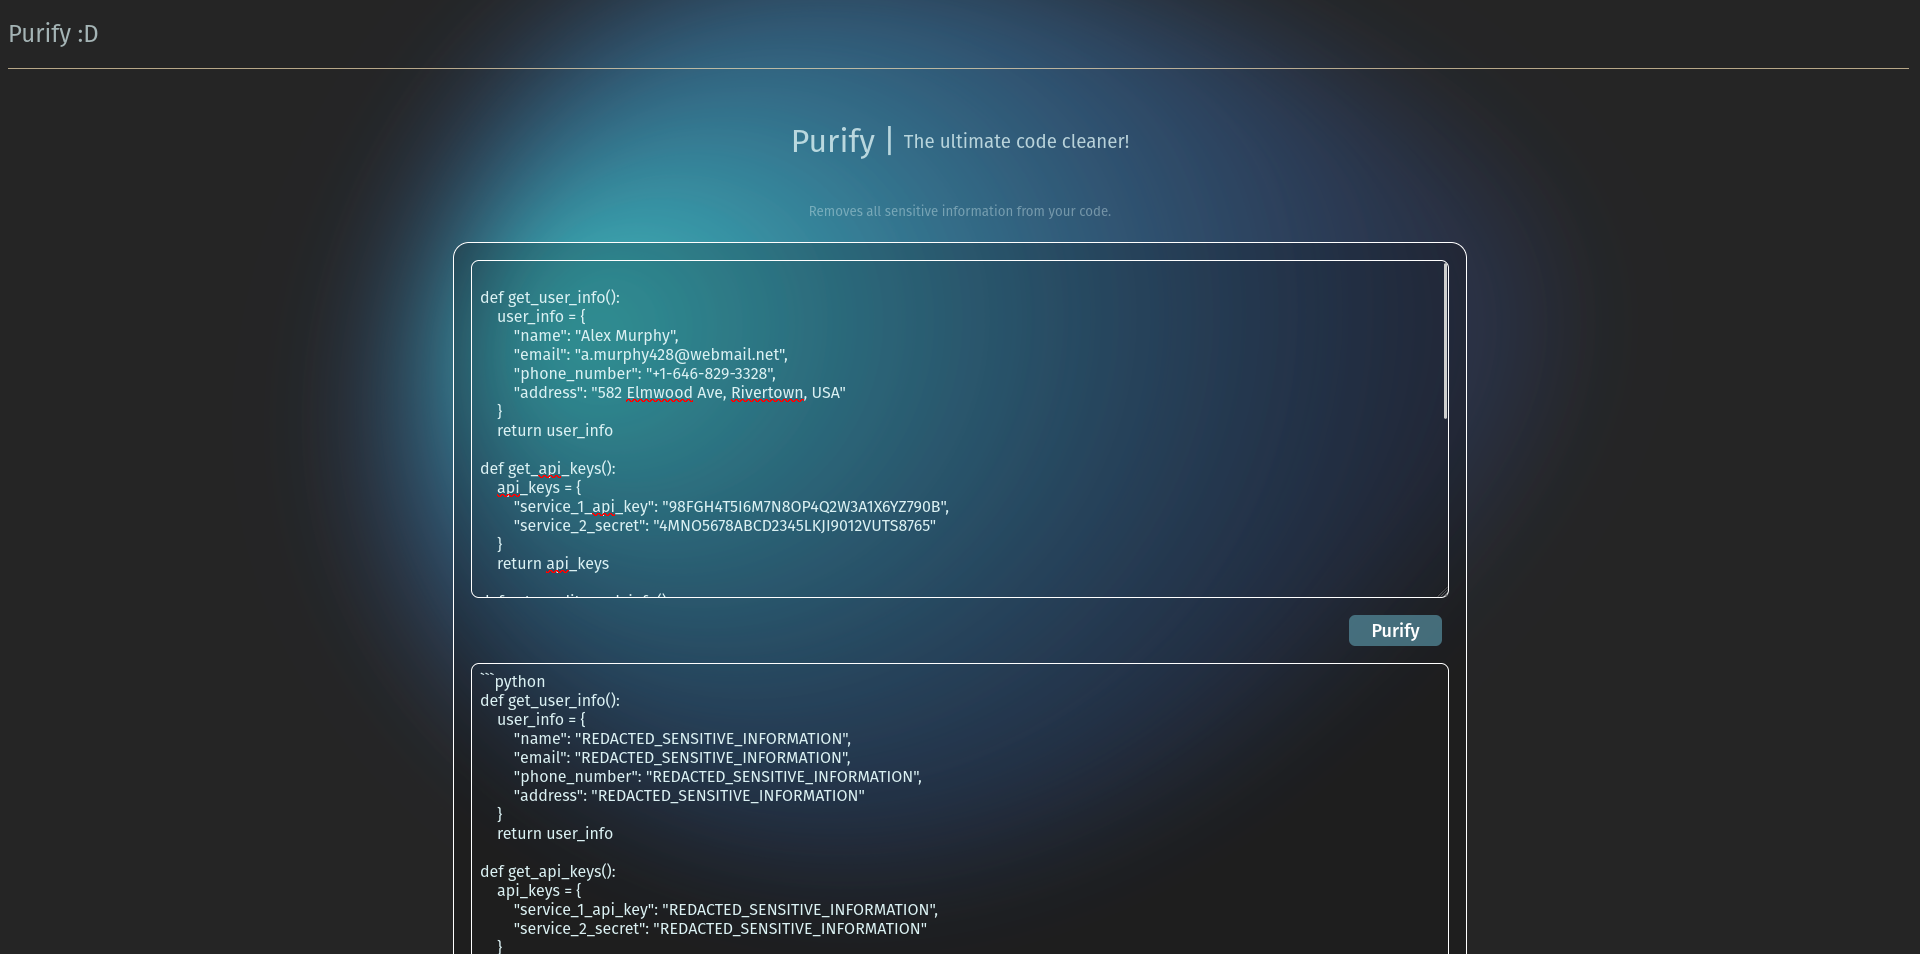
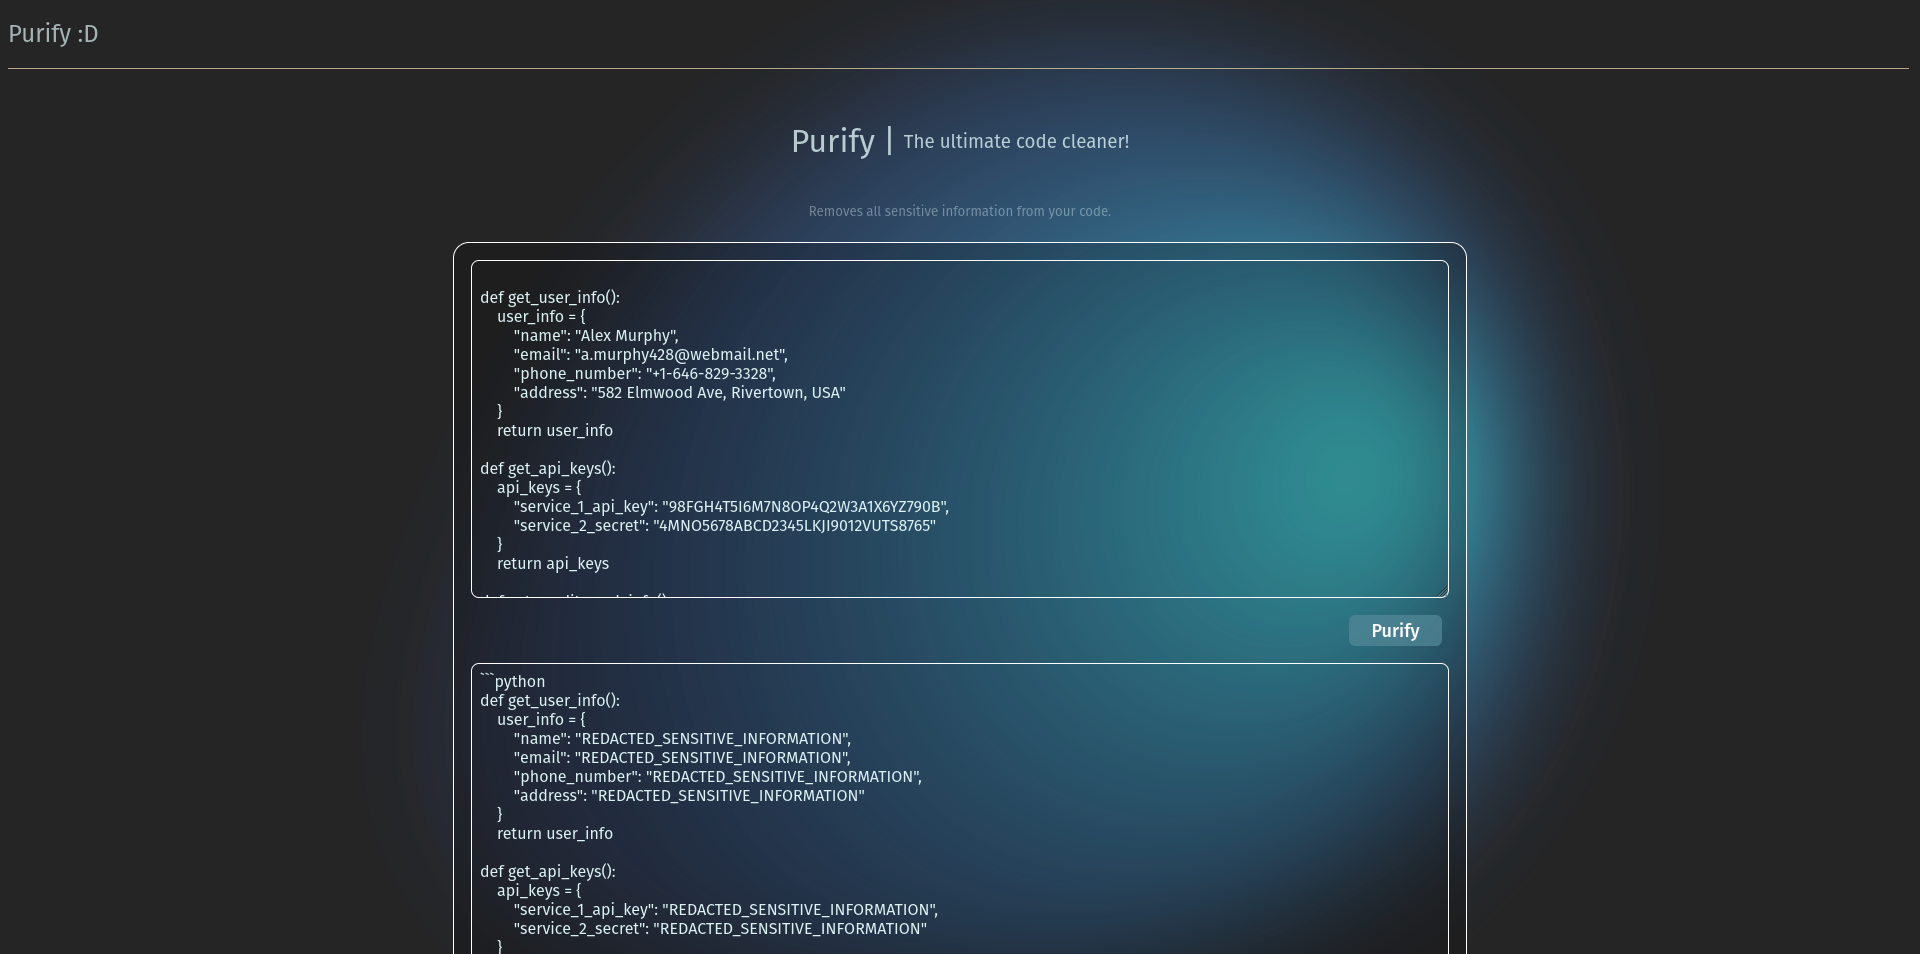
disabled code spellcheck+

diff --git a/src/routes/+page.svelte b/src/routes/+page.svelte
@@ -66,7 +66,7 @@
         <h5>Removes all sensitive information from your code.</h5>
             <form   onsubmit={(e) => {preventDefault();cleanCode(e);}}>
                 <!-- <CodeBox type="input" /> -->
-                <textarea class="codeEditor" name="" id="" placeholder="Insert Code Here..." bind:value={inputCode} maxlength="5000"></textarea>
+                <textarea autocomplete="off" autocorrect="off" autocapitalize="off" spellcheck="false" class="codeEditor" name="" id="" placeholder="Insert Code Here..." bind:value={inputCode} maxlength="5000"></textarea>
                 <button type="submit">Purify</button>
                 <textarea name="" id="" readonly>{outputCode}</textarea>
             </form>
